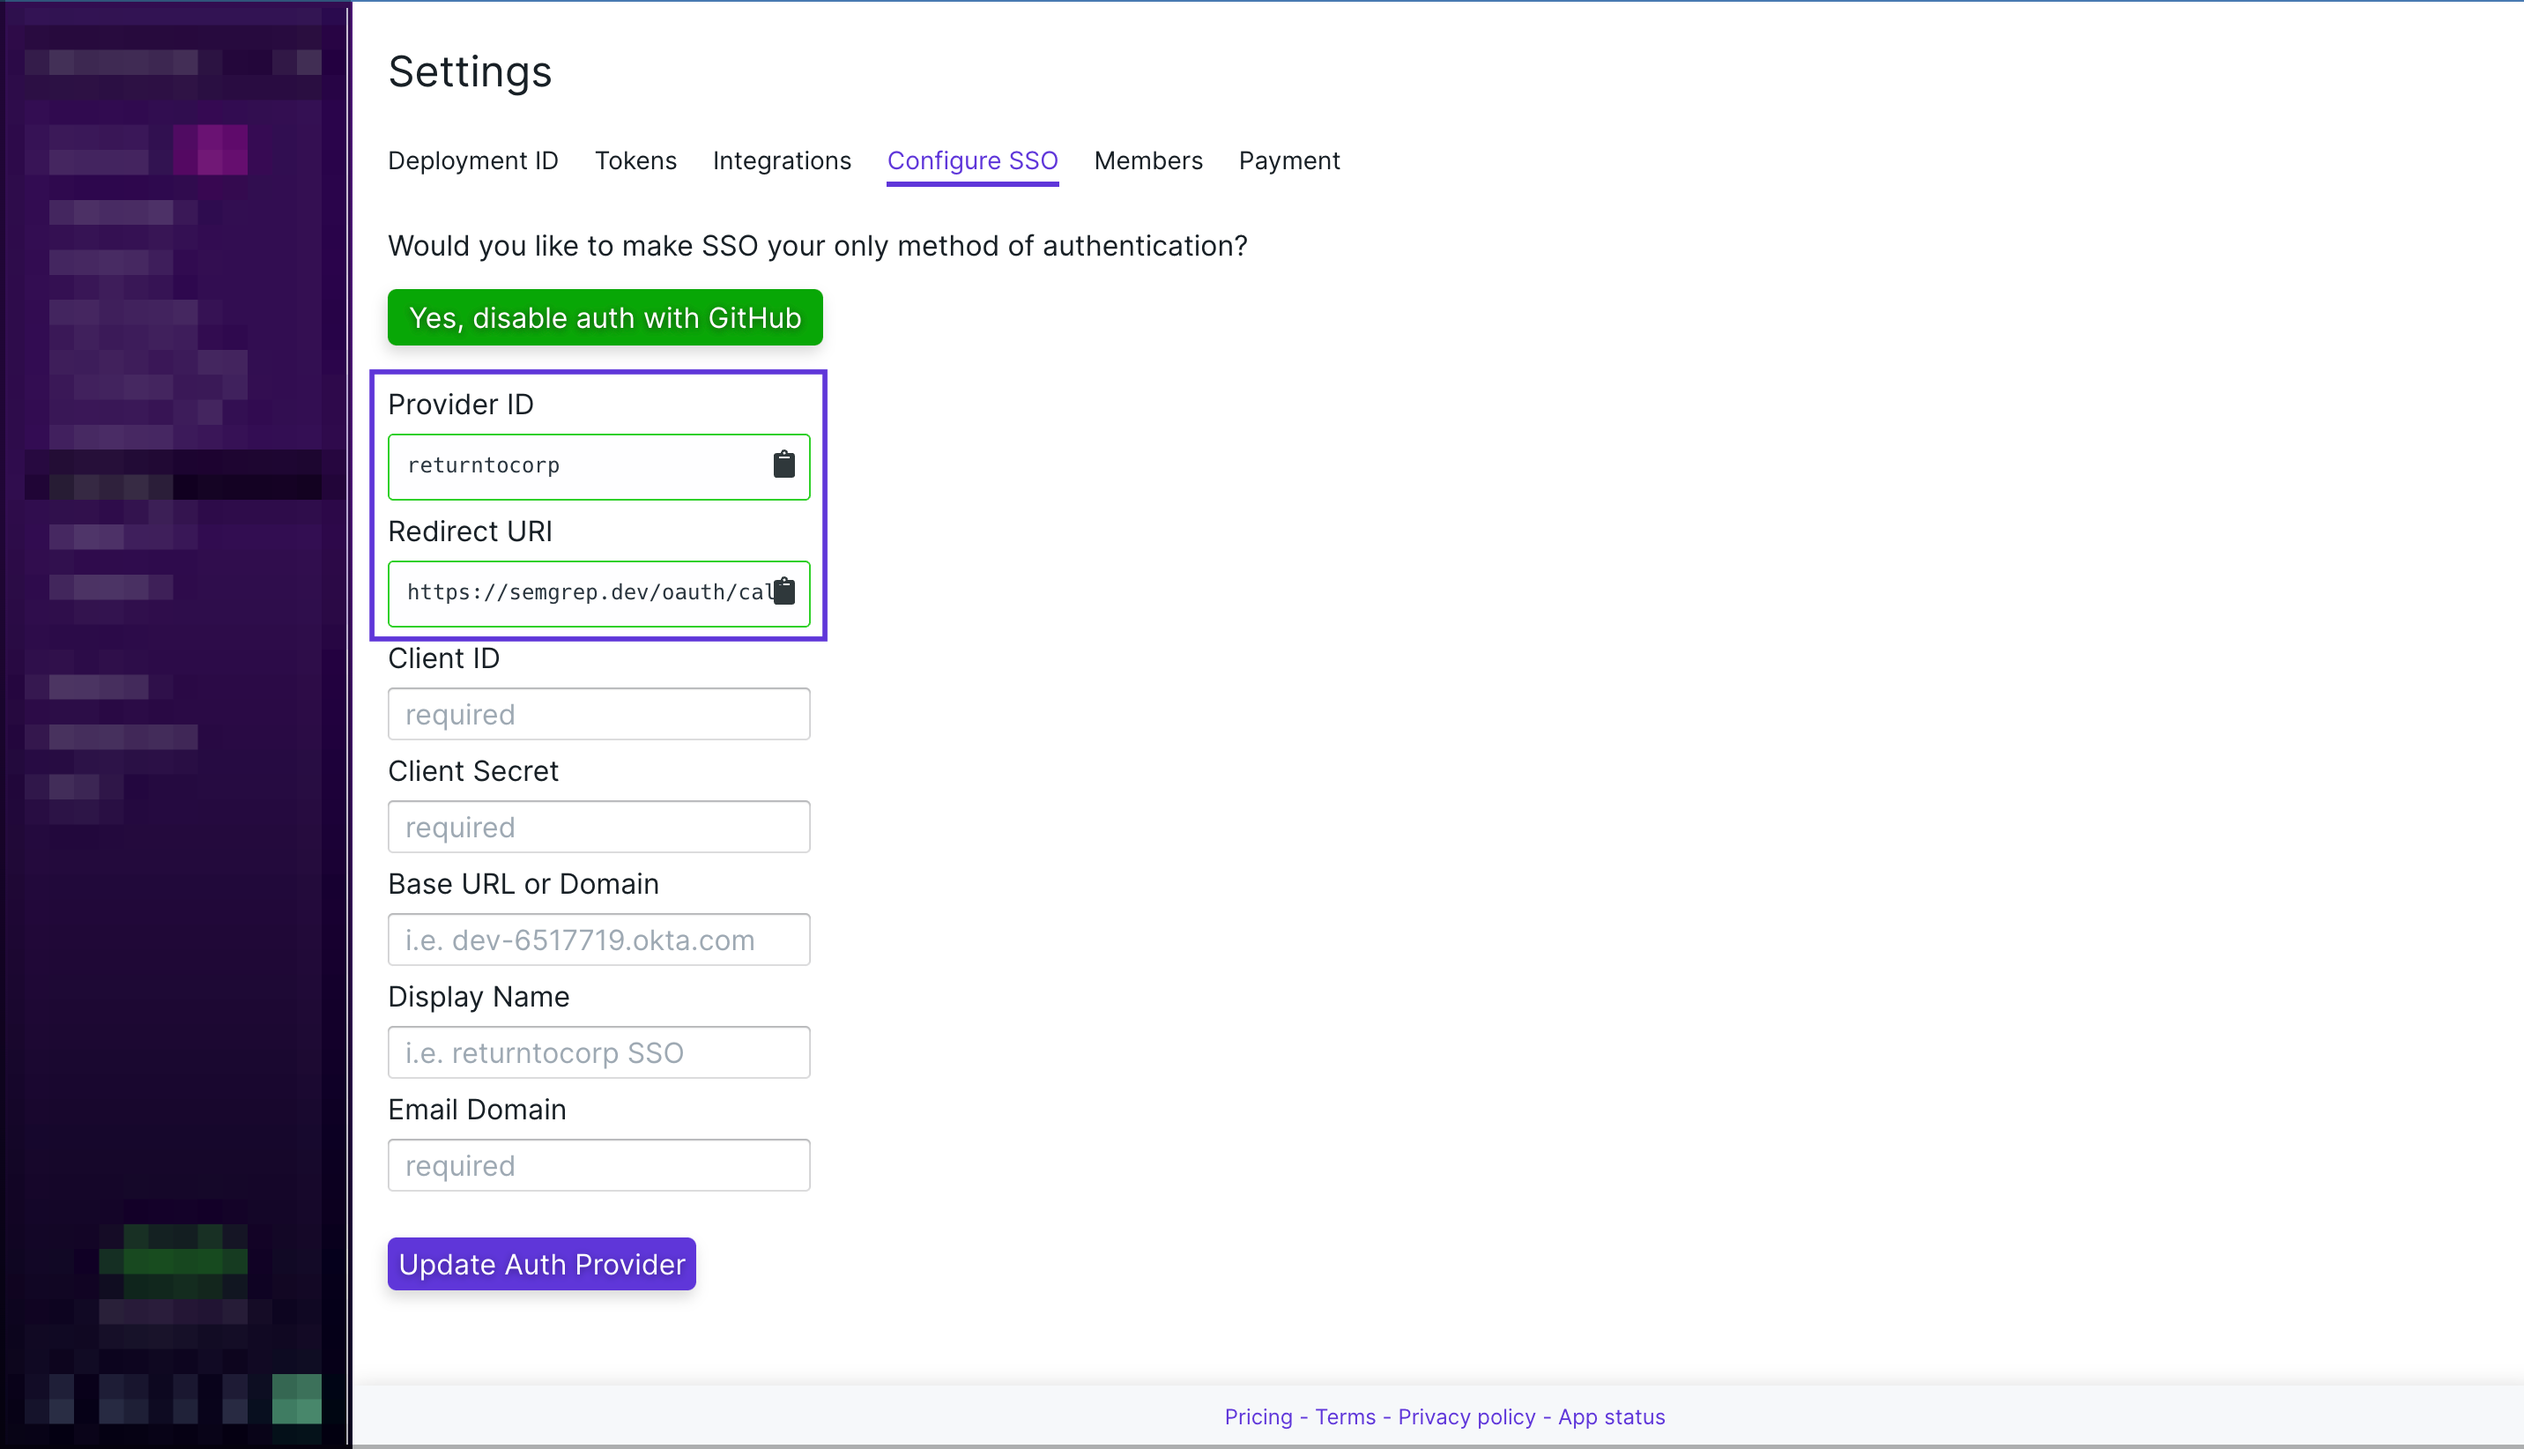
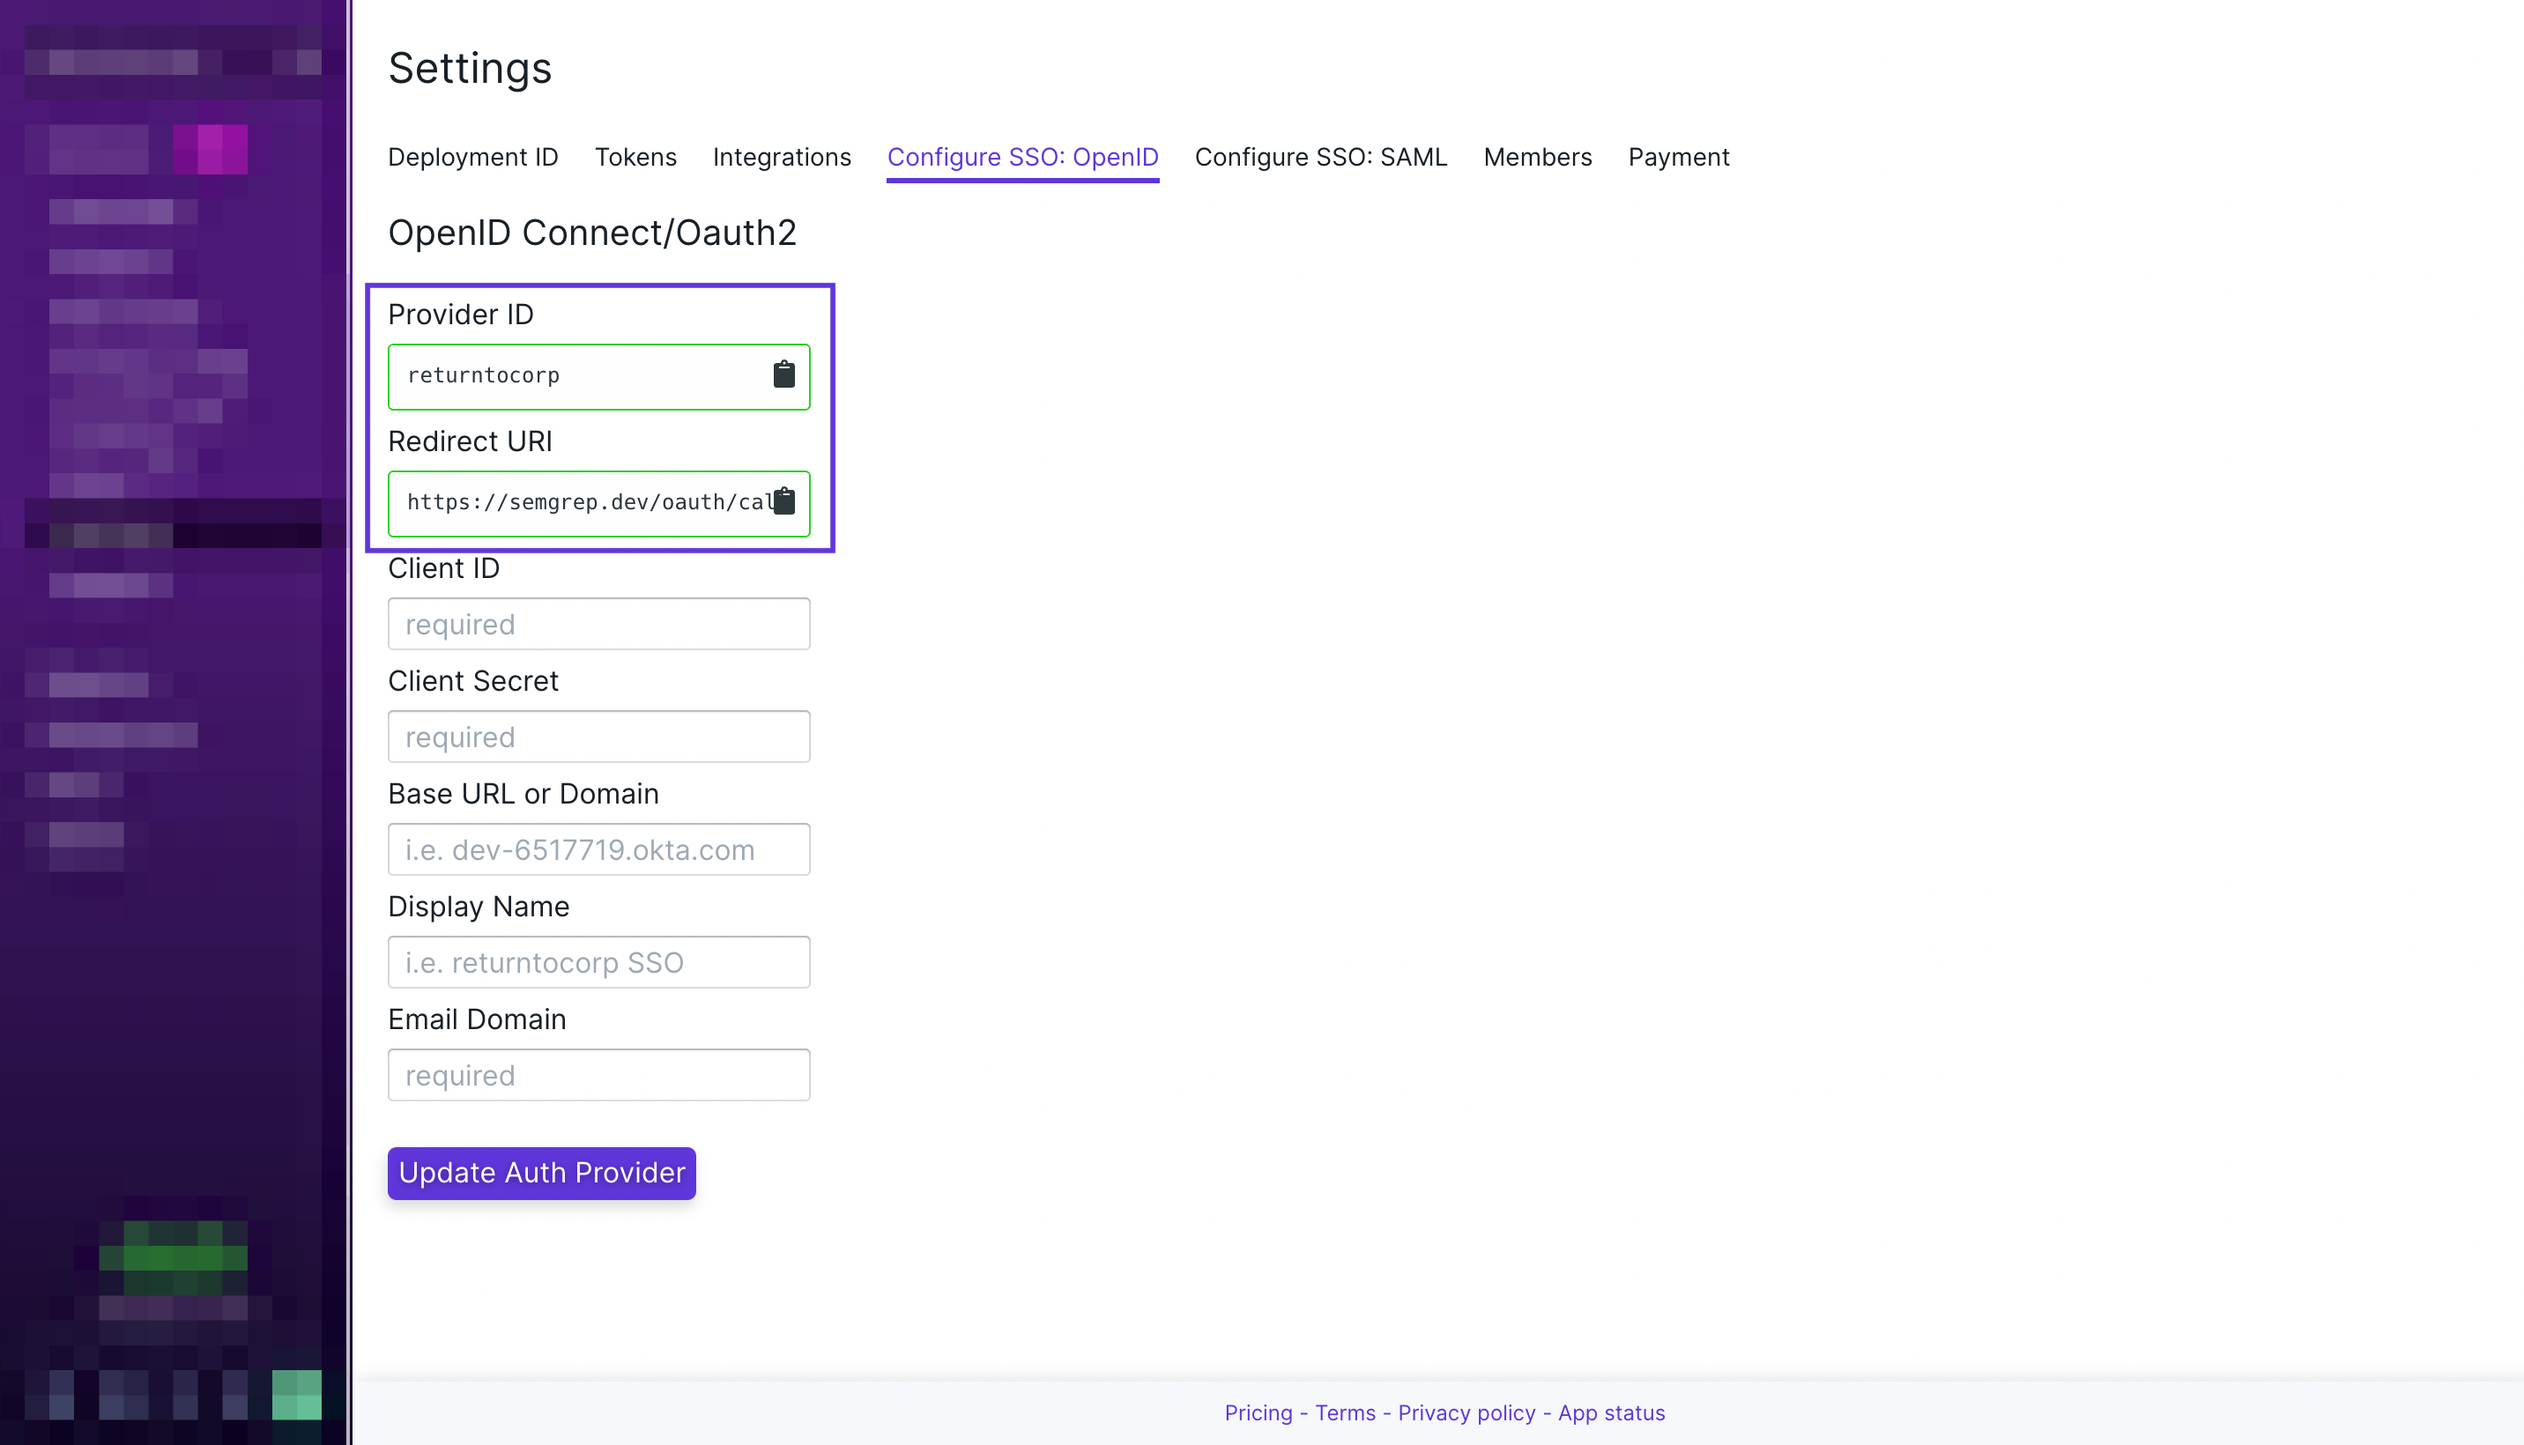
Added new wording and ss's for the SAML tab

diff --git a/docs/semgrep-app/sso.md b/docs/semgrep-app/sso.md
@@ -12,35 +12,40 @@ SSO (single sign-on) is a Team/Enterprise tier feature. Organizations can choose
 
 ## OAuth2/OIDC
 
-OAuth2/OIDC can be configured via the Semgrep App Dashboard. Please visit the <b>Configure SSO</b> tab under Settings to edit the SSO configuration.
+OAuth2/OIDC is configured through the **Semgrep App Dashboard**. 
 
-There you’ll find a `providerId` and `Redirect URL`.
+To set up SSO:
 
-![Finding providerId and RedirectURL via the Semgrep App](../img/sso-finding-providerId-and-Redirect-URL.png "Finding providerId and RedirectURL via the Semgrep App")
-
-Using these, please generate a `Client ID` and `Client Secret`.
-
-The last step will be to provide a `Base URL/Domain`, `Display Name`, and your `Email Domain`.
-
-<b>If you are using Okta the following are some example screenshots of retrieving the above items.</b>
-
-Generating `Client ID` and `Client Secret`.
-![Generating Client ID and Client Secret via the Okta](../img/sso-clientID-clientSecret.png "Generating Client ID and Client Secret via the Okta")
-
-Providing the `Base URL/Domain`, `Display Name`, and `Email Domain`. 
-
-:::info
-  `Base URL/Domain` used here is `drewdennison.okta.com` seen 
-  on the above screenshot.
-:::
-
+1. From the **App Dashboard**, click on **Settings > Configure SSO: OpenID**.
+2. Copy the `Provider ID` and `Redirect URI`.
+![Finding providerId and RedirectURL via the Semgrep App](../img/sso-finding-providerId-and-Redirect-URL.png "Finding Provider ID and RedirectURI via the Semgrep App")
+3.Generate a `Client ID` and `Client Secret` through your authentication provider by pasting `Provider ID` and `Redirect URI` values as needed.
+![Generating Client ID and Client Secret via the Okta](../img/sso-clientID-clientSecret.png "Generating Client ID and Client Secret through Okta")
+4. From your authentication provider, copy the values for `Base URL/Domain` and `Email Domain` to Semgrep's Configure SSO: OpenID tab. `Base URL/Domain` is `Okta domain` for Okta SSO.
+5. Provide a descriptive `Display Name`.
 ![Providing the Base URL/Domain, Display Name, and Email Domain](../img/sso-providing-BaseURL-DisplayName-EmailDomain.png "Providing the Base URL/Domain, Display Name, and Email Domain")
-
 
 In case you encounter issues during the setup process, please reach out to [support@r2c.dev](mailto:support@r2c.dev) for assistance.
 
 ## SAML 2.0
 
-SAML 2.0 currently requires manual support. Please reach out via Slack or [support@r2c.dev](mailto:support@r2c.dev).
+SAML2.0 is configured through the **Semgrep App Dashboard**. 
+
+To set up SSO:
+
+1. From your authentication provider, create the SAML app.
+![Creating SAML app through Okta](../img/saml-creating-app.png "Creating SAML app through Okta")
+2. From the **App Dashboard**, click on **Settings > Configure SSO: SAML**.
+3. Copy the `Provider ID`, the `Single sign on URL`, and `Audience URI` and paste the values as needed in your authentication provider.
+![Finding Provider ID, Single sign on URL, and Audience URI via the Semgrep App](../img/saml-finding-providerId-SsoURL-and-AudienceURI.png "Finding Provider ID, Single sign on URL, and Audience URI via the Semgrep App")
+4. From your authentication provider, add in 2 attribute statements `name` and `email`.
+![Filling in attribute statements in Okta](../img/saml-attribute-statements.png "Filling in attribute statements through Okta")
+5. From you authentication provider, copy your `IdP SSO URL`, `IdP Issuer ID`, and `X509 Certificate` to Semgrep's Configure SSO: SAML tab.
+![Finding IdP SSO URL, IdP Issuer ID, and X509 Certificate through Okta](../img/saml-copy-IdPSSO-IdPID-and-X509.png "Finding IdP SSO URL, IdP Issuer ID, and X509 Certificate through Okta")
+![Filling in Idp SSO URL, Idp Issuer ID, and X509 Certificate on Semgrep](../img/saml-filling-IdpSSO-IdpID-X509.png "Filling in Idp SSO URL, Idp Issuer ID, and X509 Certificate on Semgrep")
+6. Provide a descriptive `Display Name`.
+![Providing the Base URL/Domain, Display Name, and Email Domain](../img/sso-providing-BaseURL-DisplayName-EmailDomain.png "Providing the Base URL/Domain, Display Name, and Email Domain")
+
+In case you encounter issues during the setup process, please reach out to [support@r2c.dev](mailto:support@r2c.dev) for assistance.
 
 <MoreHelp />
